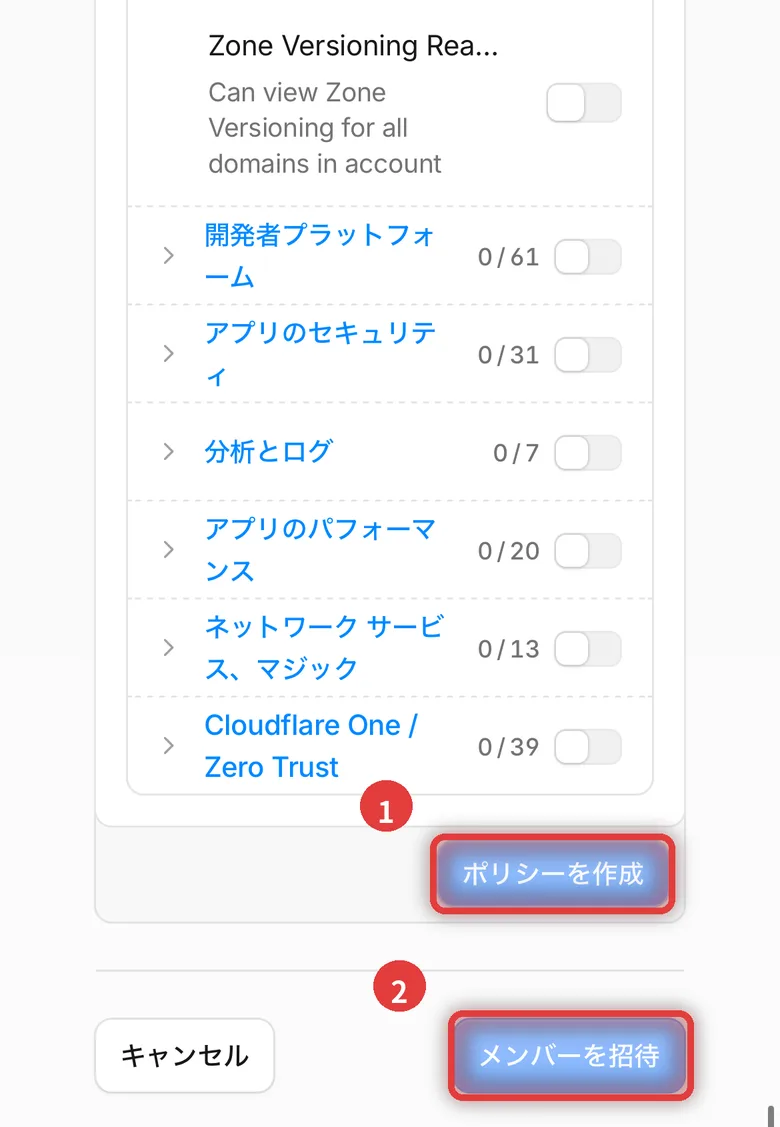
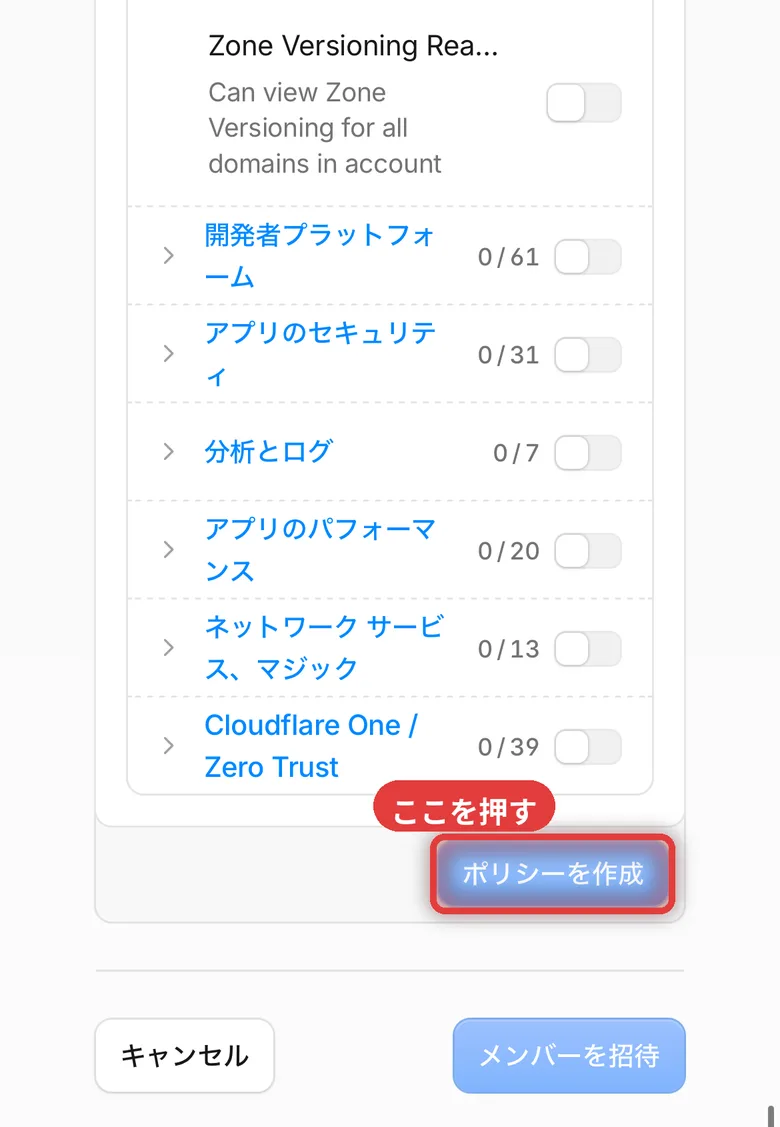
Guide STEP2: make email verification mandatory, split policy/invite steps
Claude-Session: https://claude.ai/code/session_01QtRvDZe1HGyMR9e2ztSiZN

Changed region(s): [[0.5538, 0.8696, 0.9231, 0.9938], [0.4615, 0.6832, 0.7077, 0.7453], [0.4615, 0.8385, 0.5538, 0.9006]]

diff --git a/guide/index.html b/guide/index.html
@@ -290,10 +290,11 @@
             </div>
             <figure class="g-shot g-shot--img"><img src="images/step2-2.webp?v=2" alt="Cloudflareの登録画面。Email・Passwordの入力欄、パスワードの条件、「成功しました!」と表示されたチェック欄、「Sign up」ボタンが赤い枠で囲まれている" width="780" height="1237" loading="lazy" decoding="async"></figure>
           </li>
-          <li class="g-item">
+          <li class="g-item g-item--key">
             <div class="g-item__body">
-              <p class="g-item__text">この画面が出たら、登録は完了です。</p>
-              <p class="g-item__sub">Cloudflareから確認のメールが届いた場合は、メールの中にあるリンクを押してください。</p>
+              <p class="g-key">ここが重要です</p>
+              <p class="g-item__text">この画面が出たら、Cloudflareから届いた確認メールを開き、メールの中にあるリンクを<em>必ず</em>押してください。</p>
+              <p class="g-item__sub">このリンクを押さないと、あとの手順でYU DESIGNを招待できません。メールが見当たらないときは、迷惑メールのフォルダを確認するか、画面の上に出ている「メールを再送信」を押してください。</p>
             </div>
             <figure class="g-shot g-shot--img"><img src="images/step2-3.webp?v=1" alt="登録が終わったあとのCloudflareのトップ画面。「Pick up where you left off.」と表示されている" width="780" height="1507" loading="lazy" decoding="async"></figure>
           </li>
@@ -333,10 +334,17 @@
           </li>
           <li class="g-item">
             <div class="g-item__body">
-              <p class="g-item__text">一番下までスクロールして、「ポリシーを作成」（1）を押してから、「メンバーを招待」（2）を押します。</p>
-              <p class="g-item__sub">これで招待のメールがYU DESIGNに届きます。</p>
+              <p class="g-item__text">一番下までスクロールして、「ポリシーを作成」を押します。</p>
+              <p class="g-item__sub">まだ「メンバーを招待」は押さなくて大丈夫です。</p>
             </div>
-            <figure class="g-shot g-shot--img"><img src="images/step2-9.webp?v=1" alt="招待画面の一番下。「ポリシーを作成」と「メンバーを招待」のボタンが赤い枠と番号1・2で示されている" width="780" height="1127" loading="lazy" decoding="async"></figure>
+            <figure class="g-shot g-shot--img"><img src="images/step2-9.webp?v=2" alt="招待画面の一番下。「ポリシーを作成」ボタンが赤い枠で囲まれている" width="780" height="1127" loading="lazy" decoding="async"></figure>
+          </li>
+          <li class="g-item">
+            <div class="g-item__body">
+              <p class="g-item__text">「役割」が「Administrator」になっているのを確認して、「メンバーを招待」を押します。</p>
+              <p class="g-item__sub">これで招待のメールがYU DESIGNに届きます。「メールアドレスを確認してください」という英語のエラーが出たときは、手順3の確認メールのリンクを押してから、もう一度やり直してください。</p>
+            </div>
+            <figure class="g-shot g-shot--img"><img src="images/step2-10.webp?v=1" alt="ポリシー作成後の招待画面。役割「Administrator」の部分と「メンバーを招待」ボタンが赤い枠で囲まれている" width="780" height="1327" loading="lazy" decoding="async"></figure>
           </li>
         </ol>
 
